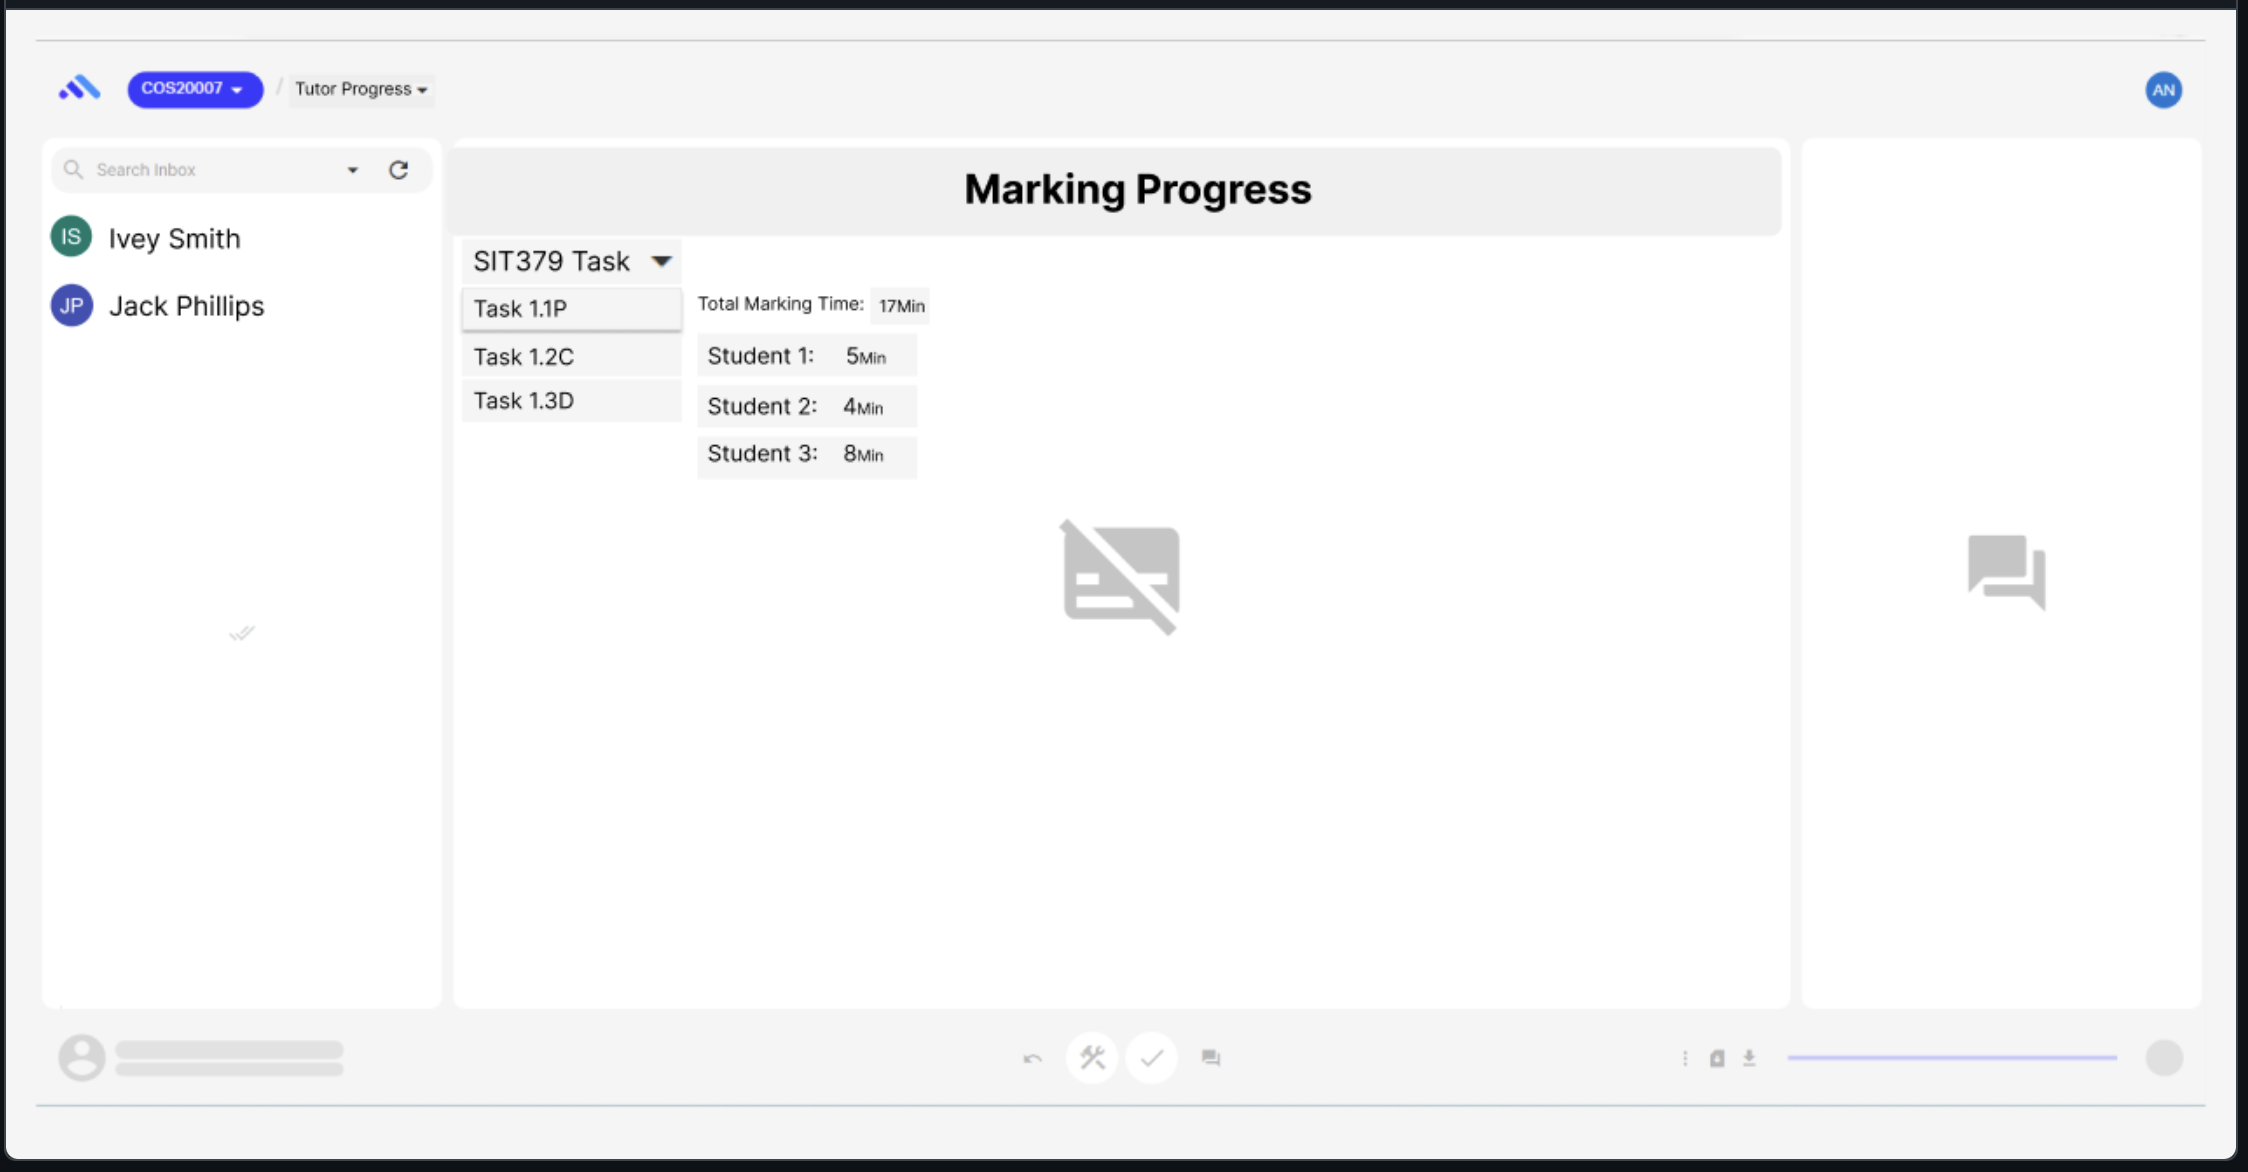
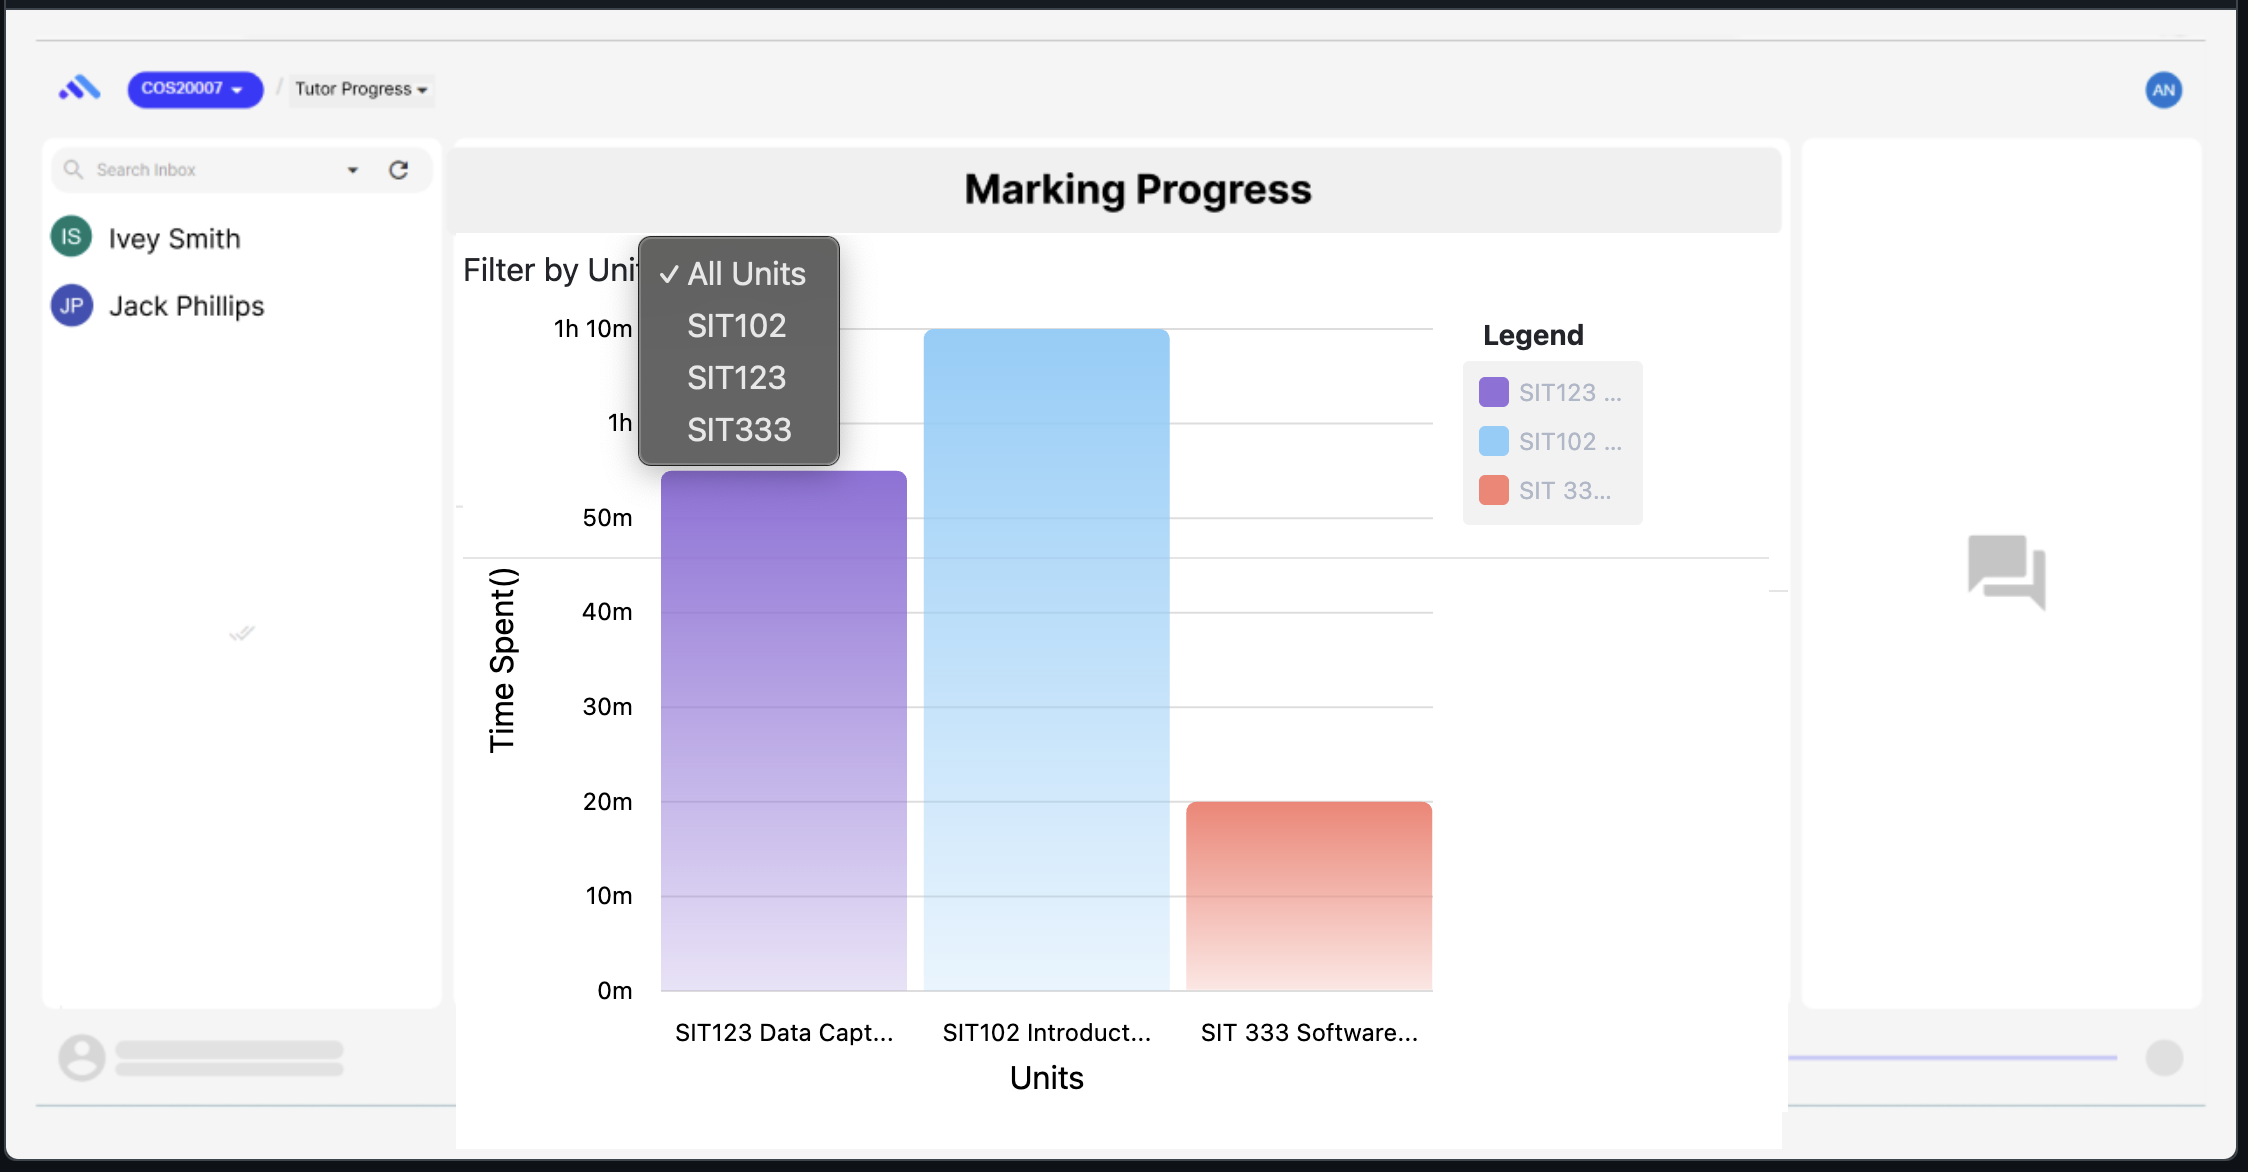
docs(tutor-times): add frontend documentation
Added detailed documentation for the frontend components related to the tutor-times feature.
This includes descriptions of props, usage examples, and behavior across different views.

Changed region(s): [[0.1868, 0.1843, 0.6539, 0.9522], [0.6539, 0.2765, 0.7162, 0.43], [0.7473, 0.8908, 0.7785, 0.9215]]

diff --git a/src/content/docs/frontend/tutor-times/tutor-times-design.md b/src/content/docs/frontend/tutor-times/tutor-times-design.md
@@ -27,17 +27,18 @@ cohesive visual identity and navigation structure.
 
 ### 2.2 Wireframes and Mockups
 
-#### 2.2.1 Dashboard
+#### 2.2.1 Time Dashboard for Tutors
 
-- ![Tutor Progress Dashboard](../../../assets/tutor-progress.png)
+- ![Tutor-Progress](../../../../assets/tutor-progress.png)
+- ![Filter-By-Units](../../../../assets/units-filteration.png)
 
 - The dashboard provides an overview of marking time statistics, including total time spent on a task and time spent per student
 
-#### 2.2.2 Tutor Times Page
+#### 2.2.2 Time Stats for Admin
 
-- ![Tutor Times Page](../../../assets/tutor-times-page.png)
+- ![Admin-Stats](../../../../assets/admin-stats.png)
 
-- The Tutor Times Page displays a list of students and their respective marking times. Tutors can resume, stop, or manually input time for each student.
+- The Page displays a list of tutors and their respective marking times on thier respective units.
 
 ### 2.3 Responsive Design
 
@@ -62,17 +63,14 @@ icons for notifications.
 
 ### 2.7 Navigation
 
-The "Tutor Times" feature will be accessible through the main navigation menu within OnTrack. Clear breadcrumbs will guide users through the application.
+The "Marking Time" will be accessible through the main navigation menu within OnTrack. Clear breadcrumbs will guide users through the application.
 
-### 2.8 Forms and Inputs
 
-Input forms will include text fields for manual time input, along with resume and stop buttons for timers. Error handling will include validation and user-friendly error messages.
-
-### 2.9 Notifications
+### 2.8 Notifications
 
 Notifications will be displayed at the top of the dashboard, providing real-time feedback on marking progress and milestones.
 
-### 2.10 User Profiles
+### 2.9 User Profiles
 
 Tutors will have access to their profiles to view personal information and settings.
 
@@ -82,12 +80,11 @@ Tutors will have access to their profiles to view personal information and setti
 
 #### 3.1.1 Tracking Marking Time
 
-1. Tutors log in to OnTrack.
-2. Tutor navigates to the Task Inbox.
-3. Timer auto-starts.
-4. Timer auto-pauses after 12 mins of inactivity.
-5. Tutors can manually resume the timer from tutor-times page.
-6. Tutors can view their aggregated stats on the Analytics page.
+1. Tutor logs into OnTrack.
+2. When a task is opened for marking, the timer auto-starts.
+3. If no activity is detected (no mouse movement, no key presses, no tab visibility, no scroll, no clicks) for 10 minutes, the timer auto-pauses.
+4. When the tutor resumes activity, the timer auto-resumes.
+5. Tutor can view time spent in the Marking Time page.
 
 ### 3.2 Accessibility
 
@@ -96,7 +93,7 @@ Accessibility features will be implemented, including alt text for images, keybo
 ### 3.3 Usability
 
 The UI will prioritize usability, with clear and intuitive interactions, ensuring tutors can
-efficiently manage marking times.
+view their marking time for units and tasks.
 
 ### 3.4 User Feedback
 
@@ -105,22 +102,25 @@ enhancing the feature over time.
 
 ## 4. Interactive Features
 
-### 4.1 Timer/Stopwatch Feature
+### 4.1 Automated Timer/Stopwatch 
 
-- Timers automatically start when a tutor begins marking and pause after 12 minutes of inactivity.
+- **Start**: Automatically when a tutor begins marking a task.
+- **Pause**: Automatically after 10 minutes of inactivity.
+- **Resume**: Automatically when the tutor resumes activity.
 
-- Tutors can manually resume or stop the timer for better control.
+### 4.2 Visualisation Dashboard (`ngx-graph`)
 
-- This ensures accuracy while still allowing tutors to override in edge cases..
+- Tutors see a graph-based layout (using [ngx-graph](https://swimlane.github.io/ngx-graph/) and [ngx-chart](https://github.com/swimlane/ngx-charts )) of marking time broken down by:
+  - Units
+  - Tasks
+  - Time per student
 
-### 4.2 Manual Time Input
+### 4.3 Admin Visibility
 
-- While the system automatically tracks time spent on tasks, tutors have the option to manually input or adjust time entries.
-
-- This feature serves as a fallback in case of technical issues, offline marking activities, or if tutors prefer to log their time retrospectively.
-
-- Manual time entries are clearly labeled and auditable, maintaining transparency and accountability.
-
+- Admins can view marking time statistics for all tutors.
+- Filter by:
+  - Tutor
+  - Unit
 
 
 ### 4.3 Notification System
@@ -198,6 +198,4 @@ This design document provides a comprehensive plan for the frontend implementati
 
 ## 12. Appendices
 
-- Once the UI and UX designs are finalized, links will be provided to the mockups.
-- Once the UML diagrams are finalized, links will be provided to the diagrams.
 - Once the feature is implemented, a link will be provided to the frontend repository.

diff --git a/src/content/docs/frontend/tutor-times/tutor-times-requirements.md b/src/content/docs/frontend/tutor-times/tutor-times-requirements.md
@@ -37,7 +37,7 @@ title: Tutor-Times Requirements
 
 ### 1.1 Purpose
 
-The purpose of this document is to outline the requirements for the frontend development of the **"Tutor Times"** feature. This feature will enable tutors to track and manage the time spent on providing feedback to students.
+The purpose of this document is to outline the requirements for the frontend development of the **"Tutor Times"** feature. This feature will enable tutors to track the time spent on providing feedback to students.
 
 ### 1.2 Scope
 
@@ -51,26 +51,29 @@ This document is intended for frontend developers and the development team respo
 
 ## 2. Functional Requirements
 
-### 2.1 Tutor's Marking Progress Page
+### 2.1 Marking Time Page
+A dedicated page displays time data for tutors.
+Tutors can view time spent on:
+- Each unit they’re assigned to. 
+- Each task within those units.
 
-- Create a dedicated page/dashboard where tutors can view their marking progress.
-- Display the time spent providing feedback to each student.
+Admins can view all tutors' marking time by task and unit.
 
 ### 2.2 User Interface
 
-- Design an intuitive and user-friendly interface for the Tutor's Marking Progress Page.
+- Design an intuitive and user-friendly interface for the Tutor's Marking Page.
 - Ensure responsive design for various screen sizes and devices.
-- Provide an option for tutors to manually input marking time.
 
 ### 2.3 Timer/Stopwatch Feature
-
-- Implement a timer feature that **automatically starts** when a tutor opens a student's feedback form and **stops** when they navigate away or close it.
-- Tutors should also have the option to **manually control** the timer if needed.
+- The timer automatically starts when a tutor begins marking a task.
+- The timer pauses if the system detects inactivity for more than 10 minutes.
+- Timer automatically resumes once activity is detected again.
 - Ensure accuracy in time tracking and seamless integration with the backend.
 
-### 2.4 Manual Time Input
+### 2.4 Inactivity Detection
+A tutor is considered "inactive" if:
+- There are no mouse movements, keypresses, or scrolling for 10 minutes.
 
-- Allow tutors to manually input marking time for each student in case they forget to start or stop the timer.
 
 ### 2.5 Notification System
 
@@ -82,7 +85,7 @@ This document is intended for frontend developers and the development team respo
 
 ### 3.1 Performance
 
-- Ensure that the Tutor's Marking Progress Page loads quickly.
+- Ensure that the Marking Page loads quickly.
 - Minimize any performance impact on the overall application.
 
 ### 3.2 Usability
@@ -105,28 +108,21 @@ This document is intended for frontend developers and the development team respo
 
 ### 4.1 User Story 1
 
-**As a tutor, I want to see how long I have spent providing feedback to each student.**
+**As a tutor, I want to view visual reports of how much time I’ve spent on each task and unit.**
 
-- Tutors should be able to view the time spent on each student's feedback on the Tutor's Marking Progress Page.
+- Tutors should be able to view the time spent on each task and unit on the Marking Page.
 
 ### 4.2 User Story 2
 
-**As a unit chair, I want to see how long each tutor has spent providing feedback to each student.**
+**As an admin, I want to see how long each tutor has spent providing feedback to each student.**
 
-- Unit chairs should have access to view the total marking time for each tutor on the Tutor's Marking Progress Page.
-
-### 4.3 User Story 3
-
-**As a unit chair, I want to see how long each tutor has spent providing feedback to each task.**
-
-- Unit chairs should be able to see the time spent by each tutor on specific tasks on the Tutor's Marking Progress Page.
+- Admin should have access to view the total marking time for each tutor on the Tutor's Marking Progress Page.
 
 ---
 
 ## 5. Design Mockups
 
-- ![Tutor Times Page](../../../assets/tutor-times-page.png)
-- ![Tutor Progress Dashboard](../../../assets/tutor-progress.png)
+- [Wireframes and Mockups](./tutor-times-design)
 
 
 ---
